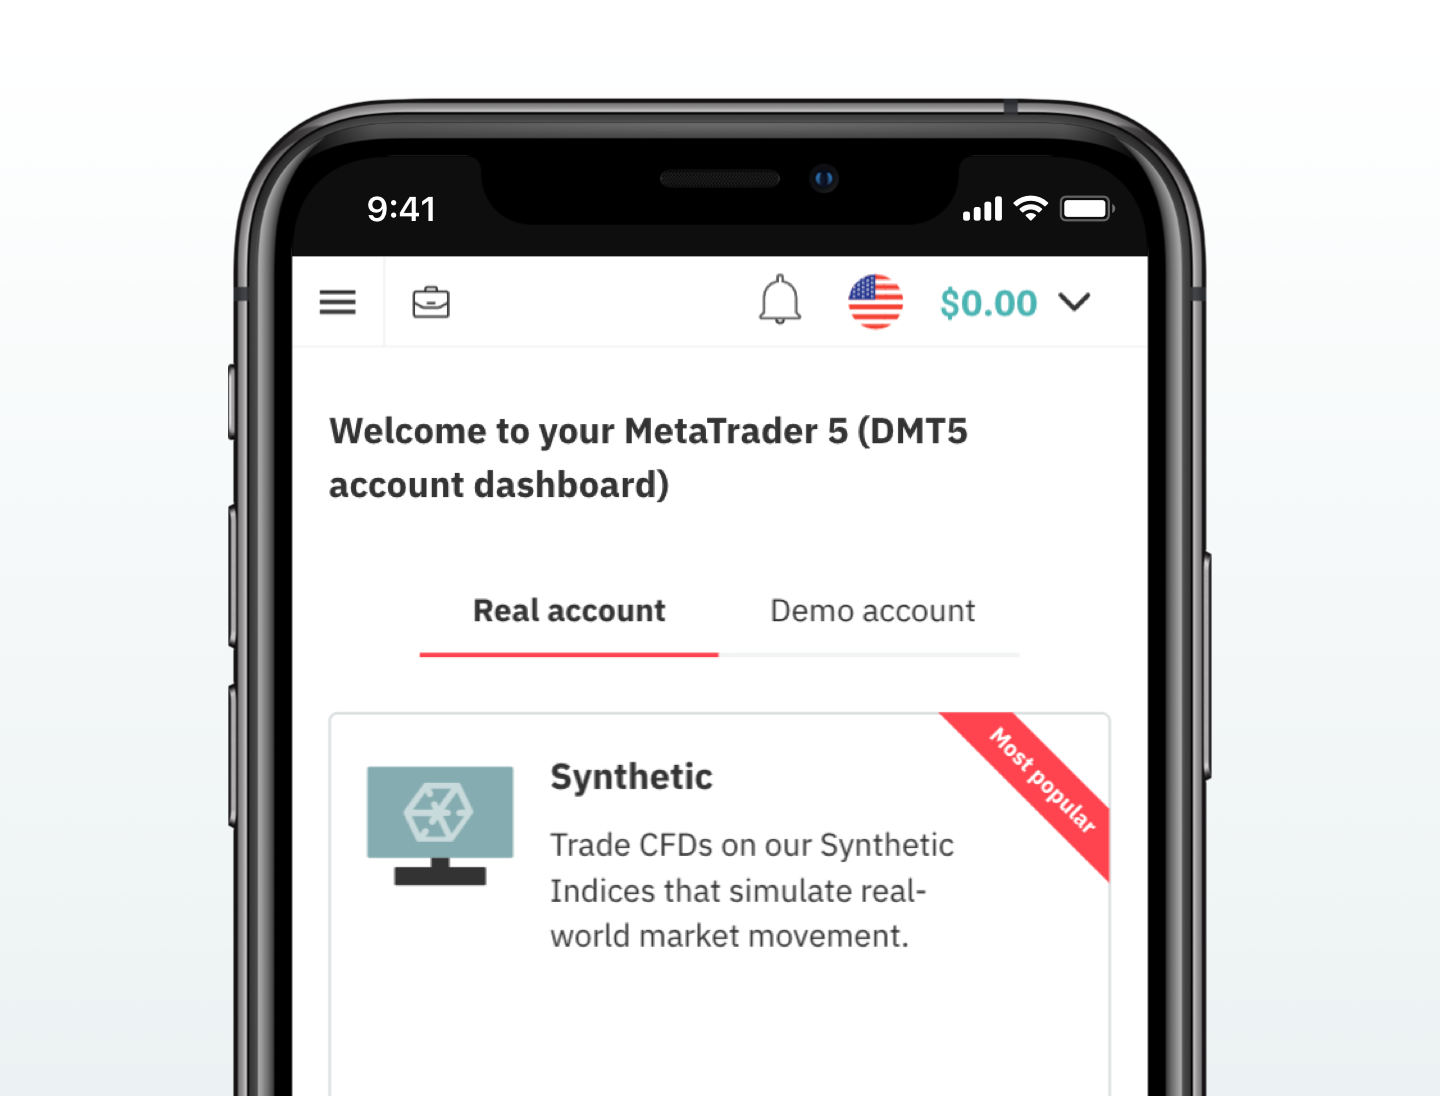
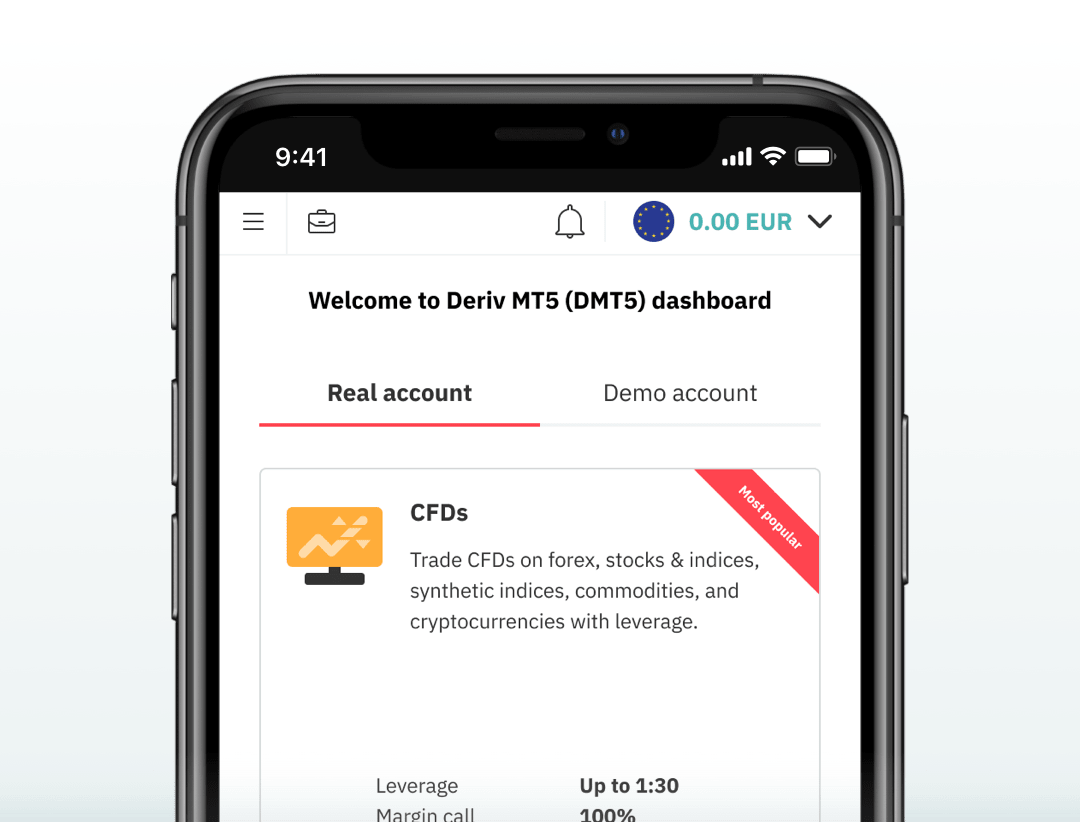
fixed on regulatory page and wrong account images

diff --git a/src/components/layout/footer/disclaimer.js b/src/components/layout/footer/disclaimer.js
@@ -90,7 +90,7 @@ const DisclaimerSection = () => {
                     </DisclaimerParagraph>
                     <DisclaimerParagraph>
                         <Localize
-                            translate_text="Deriv (Europe) Limited, W Business Centre, Level 3, Triq Dun Karm, Birkirkara BKR 9033, Malta, is licensed and regulated for digital options based on synthetic indices by the Malta Gaming Authority (<0>licence no. MGA/B2C/102/2000</0>) and by the Revenue Commissioners for clients in Ireland (licence no. 1010285)."
+                            translate_text="Deriv (Europe) Limited, W Business Centre, Level 3, Triq Dun Karm, Birkirkara BKR 9033, Malta, is licensed and regulated for digital options based on synthetic indices by the Malta Gaming Authority (<0>licence no. MGA/B2C/102/2000</0>), by the Gambling Commission for clients in Great Britain under account no. 39495, and by the Revenue Commissioners for clients in Ireland (licence no. 1010285)."
                             components={[
                                 <StaticAsset
                                     key={0}
@@ -105,11 +105,6 @@ const DisclaimerSection = () => {
                 <DisclaimerParagraph>
                     {localize(
                         "This website's services are not made available in certain countries, including the USA, Canada, and Hong Kong, or to persons below 18.",
-                    )}
-                </DisclaimerParagraph>
-                <DisclaimerParagraph>
-                    {localize(
-                        'Trading options may not be suitable for everyone, so please ensure that you fully understand the risks involved.',
                     )}
                 </DisclaimerParagraph>
                 <RiskWarning>

diff --git a/src/pages/regulatory/index.js b/src/pages/regulatory/index.js
@@ -236,7 +236,7 @@ const Regulatory = (locale) => {
                                     </Desktop>
                                     <Text mt="0.8rem" mb="1.6rem" max_width="58.8rem">
                                         <Localize
-                                            translate_text="Deriv (Europe) Limited - W Business Centre, Level 3, Triq Dun Karm, Birkirkara BKR 9033, Malta - is licensed and regulated for synthetic indices by the Malta Gaming Authority (<0>licence no. MGA/B2C/102/2000</0>) and by the Revenue Commissioners for clients in Ireland (licence no. 1010285)."
+                                            translate_text="Deriv (Europe) Limited, W Business Centre, Level 3, Triq Dun Karm, Birkirkara BKR 9033, Malta, is licensed and regulated for digital options based on synthetic indices by the Malta Gaming Authority (<0>licence no. MGA/B2C/102/2000</0>) and by the Revenue Commissioners for clients in Ireland (licence no. 1010285)."
                                             components={[
                                                 <LinkText
                                                     key={0}
